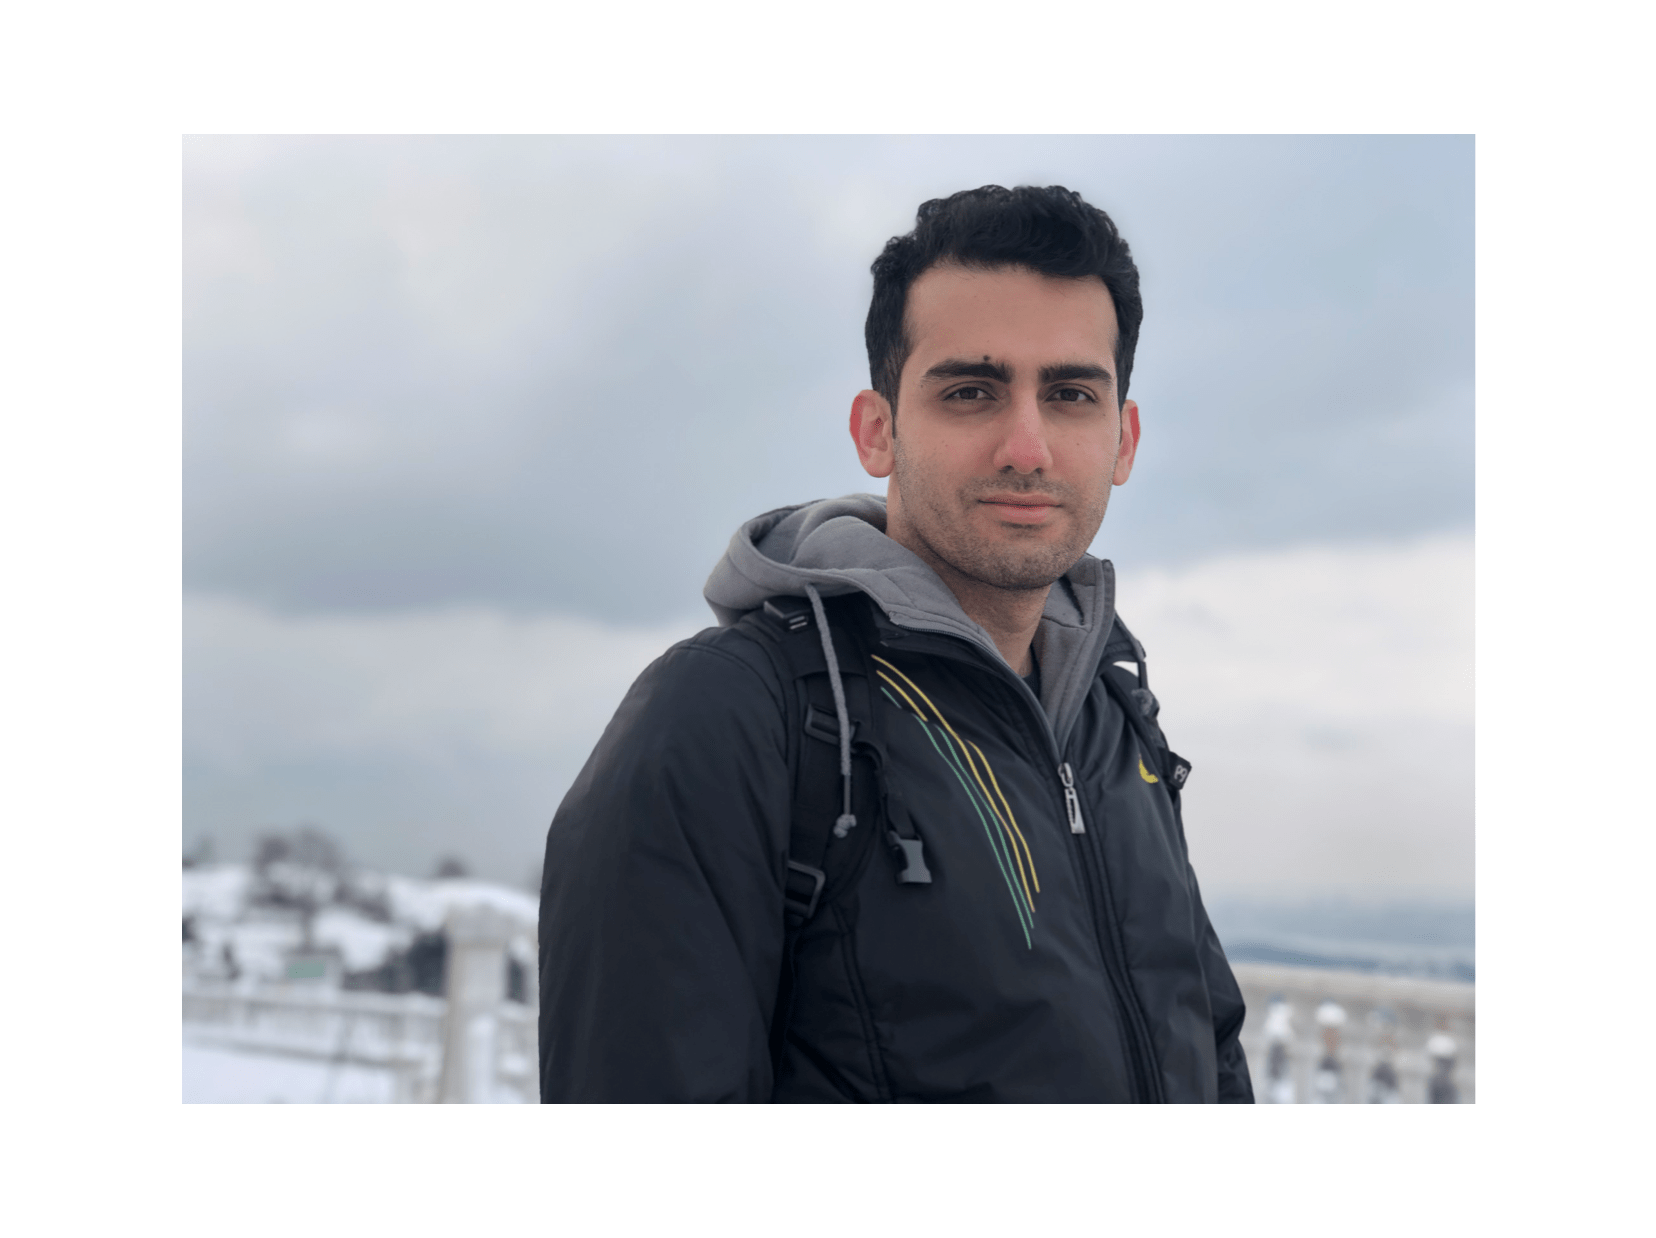
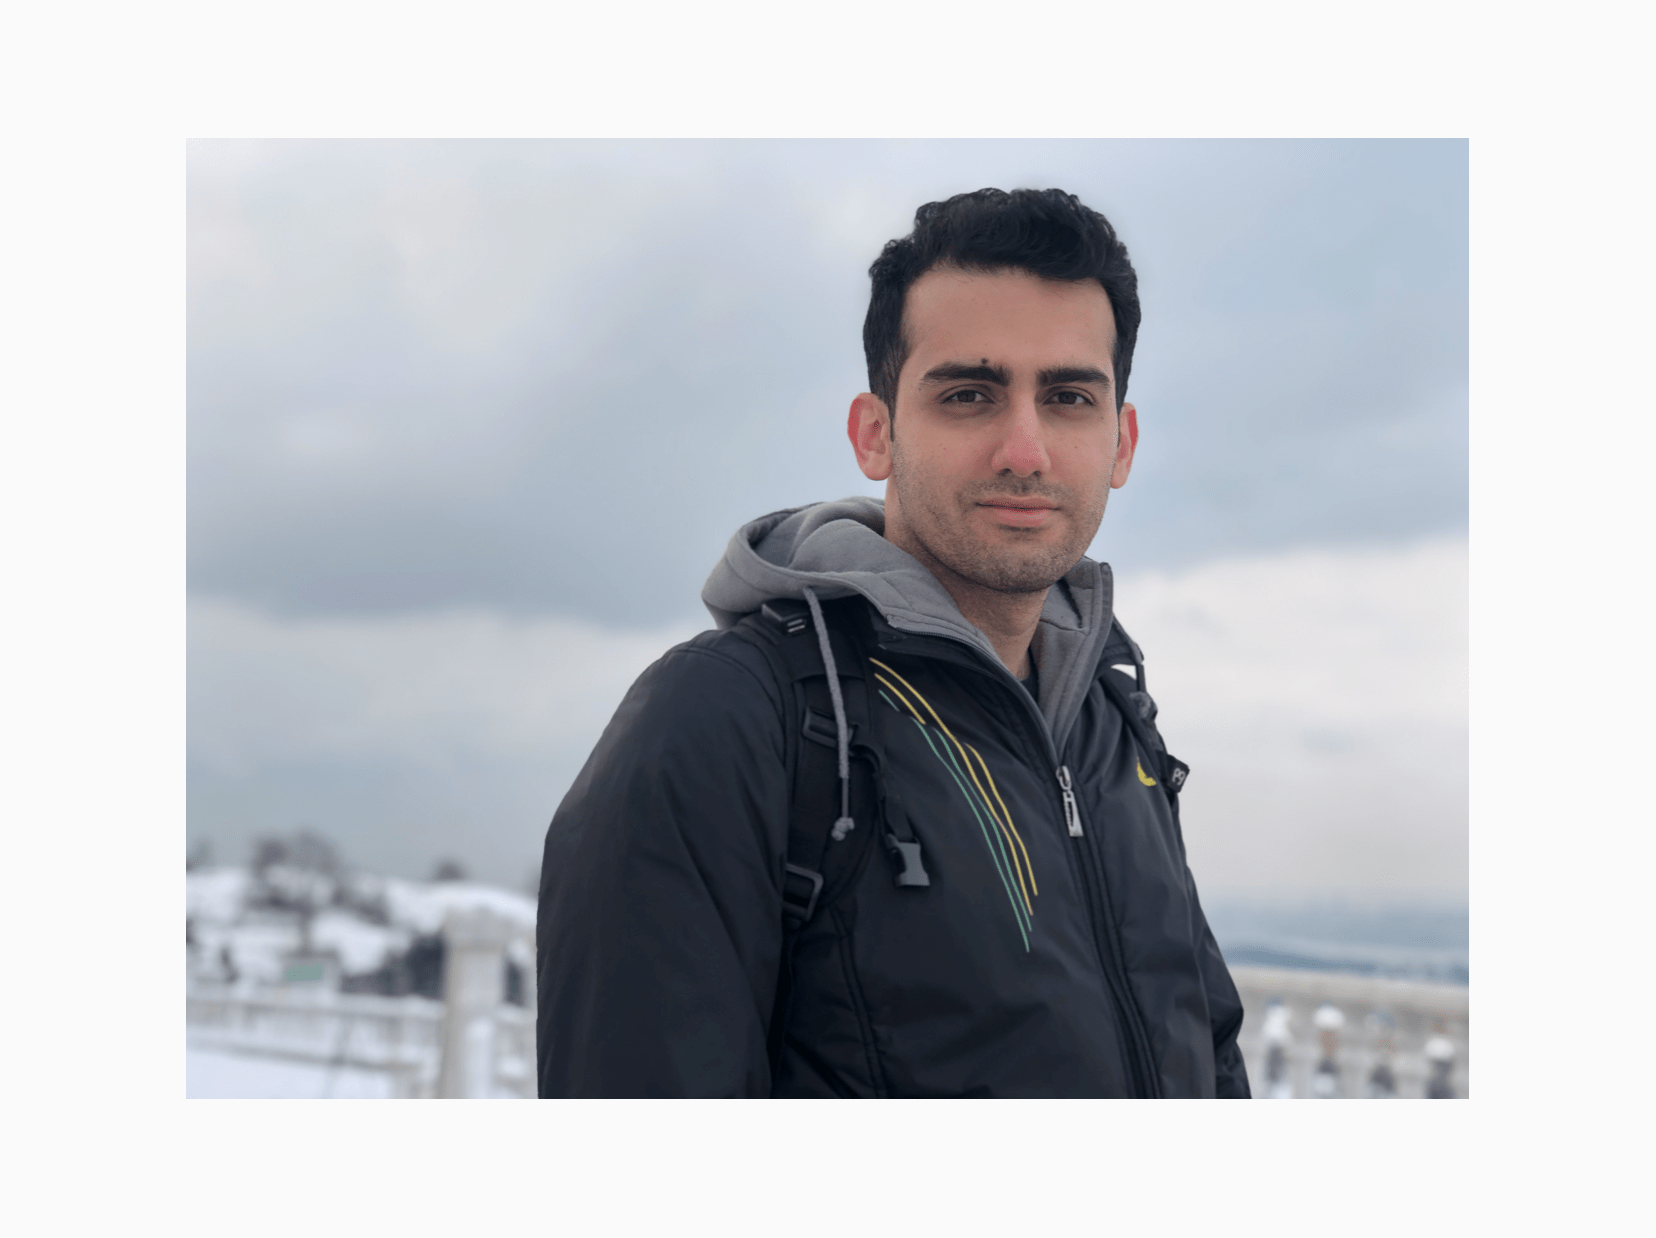
About Updated

diff --git a/about.html b/about.html
@@ -56,9 +56,9 @@
         <div class="col-12 col-md-10 col-xl-9 col-xxl-8">
             <section id="page">
                 <h1>👋🏼 Hi, I'm Aref Ahmadi Araghi</h1>
-                <!--
-                <img src="images/namava.png" alt="namava" />
-                -->
+                
+                <img src="images/about-pic.png" alt="namava" />
+                
                 <strong class="heading">I’m a Product/ Visual Designer</strong>
 
                 <div>
